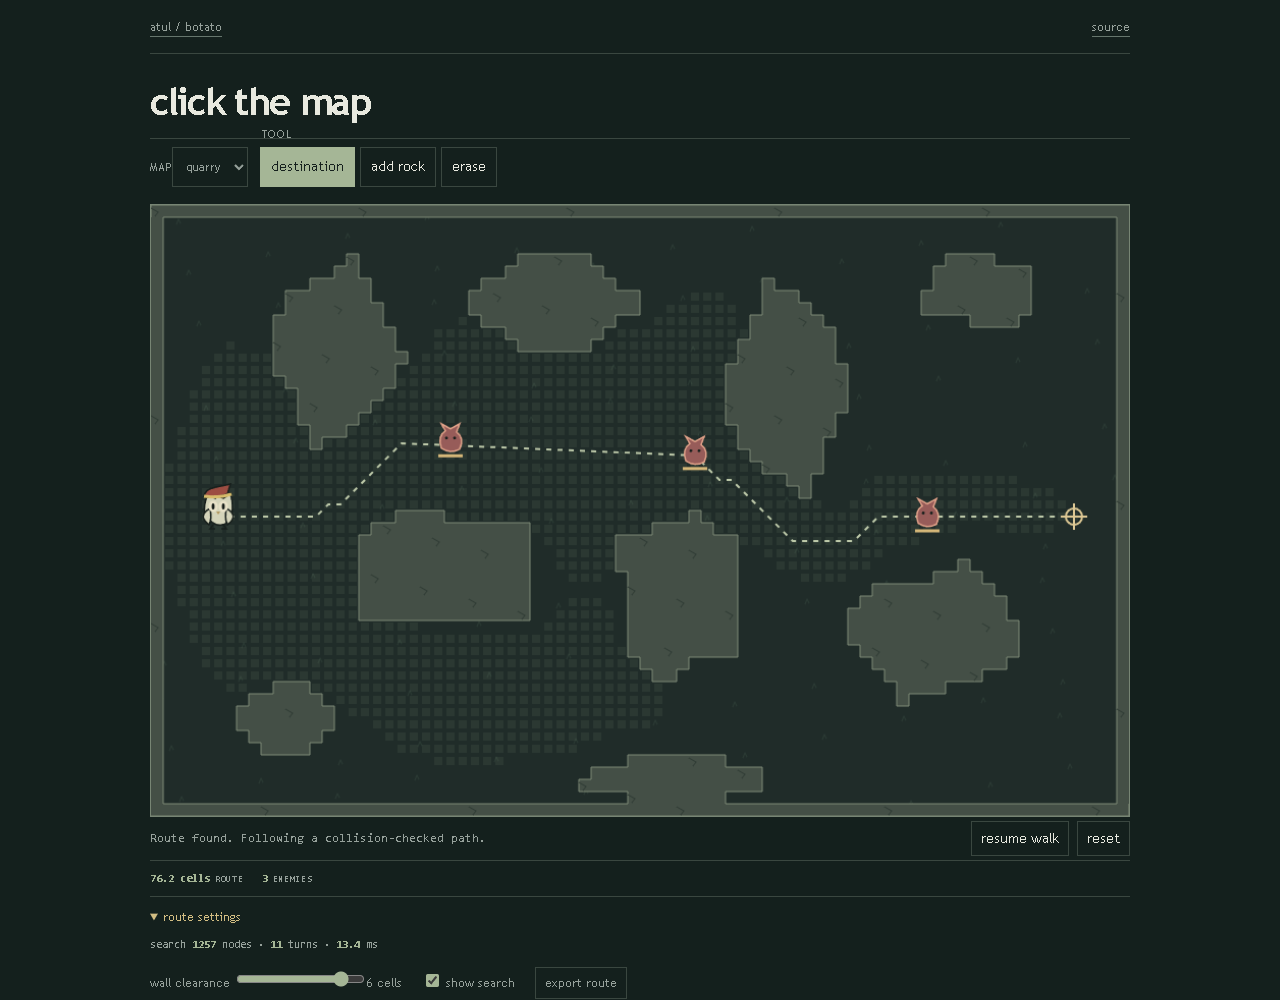
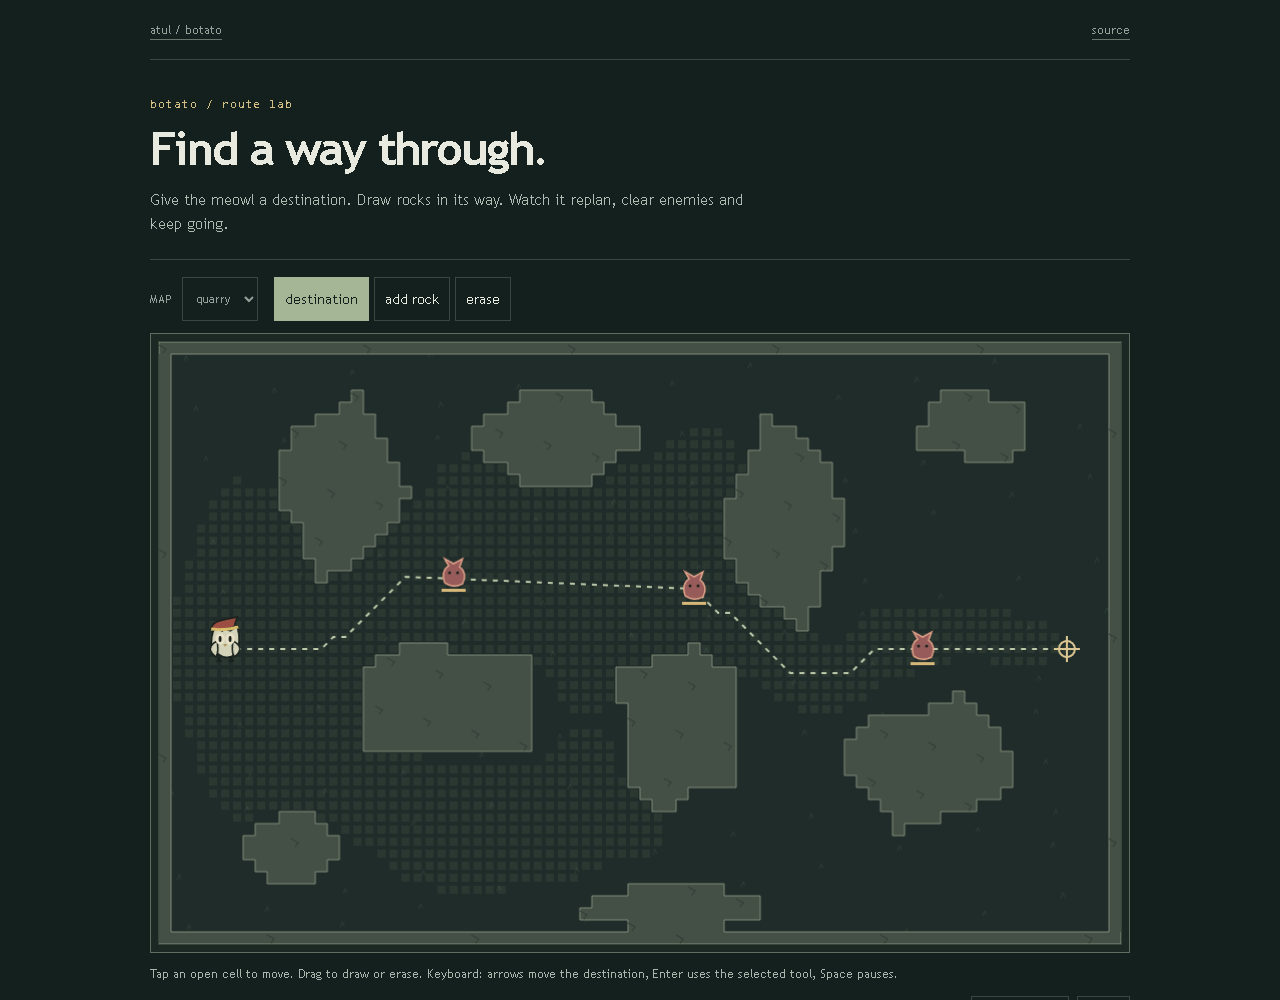
Refine terrain-first navigation and combat sandbox

diff --git a/examples/portfolio/index.html b/examples/portfolio/index.html
@@ -1,10 +1,11 @@
 <!doctype html><html lang="en"><head><meta charset="utf-8"><meta name="viewport" content="width=device-width,initial-scale=1"><title>botato / route lab</title><link rel="icon" href="favicon.svg" type="image/svg+xml"><link rel="stylesheet" href="style.css"><link rel="stylesheet" href="identity.css"></head><body>
 <header><a href="https://lolstar123.github.io/just-a-little-further/">atul / botato</a><a href="https://github.com/LolStar123/botato-navigation">source</a></header>
 <main>
-<section class="hero"><h1>click the map</h1></section>
+<section class="hero"><p class="eyebrow">botato / route lab</p><h1>Find a way through.</h1><p class="intro">Give the meowl a destination. Draw rocks in its way. Watch it replan, clear enemies and keep going.</p></section>
 <section class="toolbar"><label>map<select id="map"><option value="quarry">quarry</option><option value="ravine">ravine</option><option value="ruins">ruins</option></select></label><fieldset><legend>tool</legend><button data-tool="goal" aria-pressed="true">destination</button><button data-tool="wall" aria-pressed="false">add rock</button><button data-tool="erase" aria-pressed="false">erase</button></fieldset></section>
-<canvas id="world" width="960" height="600" tabindex="0" aria-label="Interactive terrain with route planning and enemies that are fought automatically in range. Click to set a destination."></canvas>
+<div class="map-frame"><canvas id="world" width="960" height="600" tabindex="0" aria-describedby="map-help" aria-label="Interactive terrain with route planning and enemies that are fought automatically in range. Click to set a destination."></canvas></div>
+<p id="map-help" class="map-help">Tap an open cell to move. Drag to draw or erase. Keyboard: arrows move the destination, Enter uses the selected tool, Space pauses.</p>
 <div class="below"><p id="status" role="status"></p><button id="pause">pause</button><button id="reset">reset</button></div>
-<div class="metrics" aria-label="live route telemetry"><span><strong id="distance">—</strong><small>route</small></span><span><strong id="enemy-count">—</strong><small>enemies</small></span></div>
+<div class="metrics" aria-label="live route telemetry"><span><strong id="distance">—</strong><small>route</small></span><span><strong id="enemy-count">—</strong><small>enemies left</small></span><span><strong id="kills">0</strong><small>cleared</small></span><span class="map-legend"><i></i><small>destination</small><i class="enemy-key"></i><small>enemy</small></span></div>
 <details><summary>route settings</summary><p class="search-readout"><span>search</span> <strong id="nodes">—</strong> nodes · <strong id="turns">—</strong> turns · <strong id="timing">—</strong> ms</p><label>wall clearance <input id="clearance" type="range" min="0" max="7" value="3"><output id="clearance-value">3 cells</output></label><label><input id="explored" type="checkbox"> show search</label><button id="export">export route</button></details>
-</main><script type="module" src="app.mjs"></script></body></html>
+<footer>Authored terrain, browser simulation. No game process or account connection.</footer></main><script type="module" src="app.mjs"></script></body></html>

diff --git a/examples/portfolio/identity.css b/examples/portfolio/identity.css
@@ -1,2 +1,12 @@
-/* route lab: the world is the interface, chrome stays close to it */
-body{font-family:"Trebuchet MS","Segoe UI",sans-serif}header{height:54px}main{padding:30px 0 42px}.hero{margin-bottom:18px}.hero h1{margin:0;font:800 38px/.94 "Trebuchet MS","Segoe UI",sans-serif;letter-spacing:-.035em}.toolbar{margin-bottom:9px;padding:8px 0;border-top:1px solid var(--line)}#world{border-color:#778574;box-shadow:inset 0 0 0 3px #17231f}.below{min-height:44px}.below p{font-family:ui-monospace,Consolas,monospace}summary{padding:11px 0}@media(max-width:650px){main{padding:26px 0 36px}.hero h1{font-size:34px}.toolbar{margin-top:19px}.toolbar select,.toolbar button,.below button,details button{min-height:44px}}
+/* The terrain and traveller supply the identity; controls stay close to the world. */
+body{font-family:"Trebuchet MS","Segoe UI",sans-serif}
+header{height:60px}main{padding:36px 0 42px}
+.hero{margin-bottom:24px}.hero .eyebrow{font:12px/1.4 Consolas,monospace;color:var(--gold);letter-spacing:.08em;margin:0 0 11px;text-transform:none}
+.hero h1{margin:0;font:800 clamp(32px,4.5vw,46px)/1.08 "Trebuchet MS","Segoe UI",sans-serif;letter-spacing:-.04em}
+.hero .intro{max-width:620px;margin:14px 0 0;font-size:15px;line-height:1.6;color:#afbbb3;text-transform:none;letter-spacing:0}
+.toolbar{margin-bottom:12px;padding:17px 0 0;border-top:1px solid var(--line);gap:16px}.toolbar label{display:flex;align-items:center;gap:10px}.toolbar legend{display:none}.toolbar select,.toolbar button,.below button,details button{min-height:44px}
+.map-frame{padding:7px;border:1px solid #5d6e61;background:#1b2823}#world{border:1px solid #34473a}
+.map-help{font-size:12px;color:#a7b6ad;margin:12px 0 5px;line-height:1.65;max-width:780px}
+.below{min-height:58px}.below p{font-family:Consolas,monospace;font-size:12px;line-height:1.6}.metrics span{padding:16px 24px 16px 0}.metrics strong{font-size:14px}.metrics small{font-size:10px}.metrics .map-legend{margin-left:auto;padding-right:0;gap:8px}.map-legend i{width:8px;height:8px;border:1px solid var(--gold);border-radius:50%}.map-legend .enemy-key{background:#975c59;border-color:#e0a188;border-radius:2px}
+summary{padding:16px 0;min-height:48px}footer{font-size:12px;color:var(--muted);margin-top:22px}button:hover:not(:disabled){border-color:var(--gold)}
+@media(max-width:650px){header,main{width:calc(100% - 28px)}main{padding:27px 0 34px}.hero{margin-bottom:20px}.hero h1{font-size:35px}.hero .intro{font-size:14px}.toolbar{margin-top:16px;gap:12px}.toolbar fieldset{margin-top:0;gap:6px}.toolbar button{font-size:13px}.map-frame{padding:4px}.below{padding-top:5px}.below p{margin:6px 0}.metrics{gap:0 10px}.metrics span{padding:14px 0}.metrics .map-legend{width:100%;margin:0;padding-top:0}details label{display:flex;align-items:center;gap:8px;flex-wrap:wrap;min-height:44px}details input[type=range]{max-width:180px}}

diff --git a/tools/browser_audit.py b/tools/browser_audit.py
@@ -6,6 +6,8 @@ import threading
 from pathlib import Path
 from playwright.sync_api import sync_playwright
 ROOT=Path(__file__).resolve().parents[1]
+QA=ROOT/'output/qa'
+QA.mkdir(parents=True,exist_ok=True)
 class Quiet(http.server.SimpleHTTPRequestHandler):
     def log_message(self,*args): pass
 server=http.server.ThreadingHTTPServer(('127.0.0.1',0),functools.partial(Quiet,directory=str(ROOT/'examples/portfolio')))
@@ -48,8 +50,25 @@ try:
         page.locator('[data-tool="goal"]').click()
         page.evaluate('window.scrollTo(0,0)')
         page.screenshot(path=str(ROOT/'examples/portfolio/preview.png'))
+        page.screenshot(path=str(QA/'desktop.png'),full_page=True)
         page.set_viewport_size({'width':390,'height':844})
         assert page.evaluate('document.documentElement.scrollWidth<=innerWidth+1'),'mobile overflow'
+        page.screenshot(path=str(QA/'mobile.png'),full_page=True)
+        page.locator('#world').focus();page.keyboard.press('ArrowLeft')
+        assert page.locator('#world').evaluate('(el)=>getComputedStyle(el).outlineWidth')=='2px'
+        before=page.evaluate('__botato.blocked')
+        page.locator('[data-tool="wall"]').click()
+        page.locator('#world').focus();page.keyboard.press('Enter')
+        assert page.evaluate('__botato.blocked')>before
+        assert not page.evaluate('__botato.reachable')
+        page.screenshot(path=str(QA/'blocked-keyboard.png'),full_page=True)
+        page.locator('[data-tool="erase"]').click()
+        page.locator('#world').focus();page.keyboard.press('Enter')
+        assert page.evaluate('__botato.reachable')
+        page.locator('#world').focus();page.keyboard.press('Space')
+        assert page.locator('#pause').inner_text()=='pause walk'
+        page.keyboard.press('Space')
+        assert page.locator('#pause').inner_text()=='resume walk'
         assert not errors,errors
         print('PASS: route movement, auto-combat, three maps, obstacle edits, reroute, keyboard and export')
         browser.close()

diff --git a/README.md b/README.md
@@ -1,31 +1,61 @@
-# botato route lab
+# Botato route lab
 
-**[Open the navigation sandbox](https://lolstar123.github.io/botato-navigation/)** | [poetato.app](https://poetato.app)
+[**Open the navigation sandbox**](https://lolstar123.github.io/botato-navigation/) ? [Desktop project](https://poetato.app)
 
-Botato plans movement through obstructed terrain. The public route lab lets you change that terrain while a little red-capped meowl follows its route.
+An editable navigation and combat simulation. Give a red-capped meowl a destination, draw obstacles in its way, and watch it recalculate its route. Enemies interrupt movement when they enter range; the meowl clears them and continues.
 
-![Botato route lab](examples/portfolio/preview.png)
+![Botato terrain and route](examples/portfolio/preview.png)
 
 ## Try it
 
-Click an open destination. Switch to **draw rocks** and drag across the path. The agent replans immediately; if you seal the route, it stops and says why. Erase a passage and it can continue. Try the quarry, ravine and ruins, change the preferred wall clearance, inspect the search area and export a complete route with its obstacle map.
+- Choose **quarry**, **ravine** or **ruins**, then tap an open destination.
+- Select **add rock** and drag across the route. Select **erase** to reopen a passage.
+- Seal the destination to see an unreachable state. The agent stops instead of following an invalid path.
+- Pause the simulation to edit the terrain at your own pace. Open **route settings** to change preferred wall clearance or show the search area.
+- Export the terrain, raw and smoothed routes, search result and current enemy state as JSON.
 
-## The actual navigation idea
+The map is keyboard accessible: arrow keys move the destination, Enter applies the selected destination/rock/erase tool, and Space pauses or resumes. The clearance is a preference, so a necessary narrow corridor can still be used.
 
-The [original C# router](reference/Pathfinder.cs) computes distance from walls, runs eight-direction A* with a penalty near them, then smooths the route with collision-checked shortcuts. The [original smoother](reference/PathSmoother.cs) also limits the cost increase from shortcuts.
+## How the route is built
 
-The browser implementation follows those stages on an 80 x 50 terrain. It rejects diagonal corner cuts and refuses blocked or unreachable destinations. A requested clearance is a preference, so a necessary narrow corridor can still be used. Its search metric and smoothing budget are visible in the source. The C# reference files depend on the full desktop project; they are source references, not a standalone build.
+The [original C# router](reference/Pathfinder.cs) combines distance from walls with eight-direction A*. The [original smoother](reference/PathSmoother.cs) checks proposed shortcuts for collisions and limits their additional cost.
 
-The maps are authored sandbox terrains, not exported game maps. The browser has no game-memory, account or input-control integration.
+The browser model follows the same stages on an **80 ? 50** authored terrain. It uses an orthogonal wall-distance field, a Euclidean search heuristic and a 3% smoothing-cost tolerance. Diagonal corner cuts are rejected. Changing occupancy triggers a new search before movement continues.
 
-## Run and test
+The enemy encounter loop is a public sandbox illustration of navigation feeding combat. It has three authored enemies, range checks, health and a clear/resume transition. It does not claim to reproduce every production combat decision. Neither the terrains nor the actors are exports from a running game.
+
+## Run locally
+
+Use Python 3 and a current browser. No application dependencies, account or build step are needed.
 
 ```sh
 python -m http.server 8000 --directory examples/portfolio
+```
+
+Open **http://localhost:8000** from this repository directory.
+
+## Checks
+
+```sh
 node --test examples/portfolio/model.test.mjs
-pip install playwright
+python -m pip install playwright
 python -m playwright install chromium
 python tools/browser_audit.py
 ```
 
-Open http://localhost:8000. [Routing and terrain](examples/portfolio/model.mjs), [interaction and movement](examples/portfolio/app.mjs), [provenance](PROVENANCE.md). Public browser checks run every four hours.
+Node checks collision-free routes on all maps, blocked and unreachable destinations, corner-cut prevention and occupancy edits. The isolated headless browser checks movement, automatic combat, map changes, draw/erase, keyboard editing, pause, export and a 390 px viewport. Reduced motion removes decorative bobbing while route movement remains visible. On Windows the audit uses installed Google Chrome; other platforms use Playwright Chromium.
+
+Screenshots are saved to ignored `output/qa/`; the README preview is refreshed by the audit. Search timings are measured in that browser run and are not performance promises.
+
+## Code map
+
+| File | Responsibility |
+| --- | --- |
+| [model.mjs](examples/portfolio/model.mjs) | Terrain, wall distance, A*, collision checks and smoothing |
+| [app.mjs](examples/portfolio/app.mjs) | Canvas drawing, terrain input, movement, combat and export |
+| [reference](reference) | Original C# navigation sources |
+| [browser_audit.py](tools/browser_audit.py) | Desktop/mobile flows and screenshot evidence |
+| [PROVENANCE.md](PROVENANCE.md) | Source relationship and sandbox boundaries |
+| [DESIGN.md](DESIGN.md) | Map-first design and accessibility decisions |
+
+The C# references depend on the full desktop project and are not a standalone build. This repository's browser has no game-memory, account or operating-system input integration.

diff --git a/DESIGN.md b/DESIGN.md
@@ -1,10 +1,36 @@
-# Botato route lab design
+# Botato route lab
 
-The terrain is the interface. The demo should feel like a small tactics map, not a dashboard describing pathfinding.
+## Audience and job
 
-- Put the editable world first and keep controls physically close to it.
-- Let movement, replanning and combat explain the system in motion.
-- Keep terrain, route and enemy colours quiet enough that the meowl and destination remain obvious.
-- Preserve collision checks, corner-cut prevention and unreachable-state feedback.
-- Keep route diagnostics available in settings rather than competing with the map.
-- On phones, retain tap-to-move and terrain editing without horizontal page scroll.
+A visitor explores how navigation responds to changing terrain and encounters. The primary action is interacting with the world. Route diagnostics remain secondary.
+
+## Design references and signature
+
+The original `reference/Pathfinder.cs` and `reference/PathSmoother.cs` provide the stages: wall clearance, eight-direction search and collision-checked smoothing. The authored terrain and red-capped meowl supply the visible identity. They are code-native sandbox artwork, not assets from a game process.
+
+## Tokens and layout
+
+| Role | Value |
+| --- | --- |
+| Page / ground | `#14201d` / `#202c29` |
+| Text / secondary | `#e8e9df` / `#96a19b` |
+| Rule / terrain | `#3a4740` / `#444f46` |
+| Route | `#becaaa` |
+| Destination | `#ddc894` |
+| Enemy | `#975c59`, outlined `#e0a188` |
+| Title / body | Trebuchet MS with Segoe UI fallback, 35?46 px / 14?15 px |
+| Telemetry | Consolas, 12?14 px |
+
+A restrained 980 px frame puts the map beside its tools, with an inset terrain border and an external status line. The canvas preserves its 960 ? 600 aspect ratio, including on phones; the page never clips controls to preserve that ratio. Metadata and search settings sit below the map. Terrain, route, destination and enemies have distinct shapes and colours.
+
+## Interaction states
+
+Destination, rock and erase tools have pressed states. Pointer capture keeps a drag coherent; cancellation releases it. The keyboard can move the destination and draw/erase there, while Space controls pause. Rocks are refused near the traveller. Blocked routes stop movement and explain how to reopen a passage. Reset restores terrain and enemies; it keeps the user's pause state.
+
+The encounter loop shows health, interruption, a cleared count and resumed travel. Reduced motion holds decorative bobbing/pulsing at a static phase; collision-checked movement and combat outcomes continue. Search timings are real current-browser readings, not claims about production speed.
+
+## Shared implementation rules
+
+Fonts come from the operating system; no font files or external requests are bundled. Layout starts from the working product, with no marketing cards, decorative gradients, scroll reveals or invented statistics. Code-native artwork stays editable. Controls use at least 44 px hit areas where practical and a visible two-pixel keyboard outline. Reduced motion disables decorative animation; essential state changes still happen.
+
+Local acceptance: 1280 ? 1000 desktop and 390 ? 844 mobile, no horizontal page overflow, main flow and export, keyboard focus, unavailable/error states, and no uncaught page errors. README previews and ignored `output/qa/` screenshots are generated by the actual browser audits. Screenshots were visually inspected; the review is a solo craft check, not user testing.

diff --git a/examples/portfolio/README.md b/examples/portfolio/README.md
@@ -1,1 +1,3 @@
-See the [repository guide](../../README.md) for the route lab, original-source references and checks.
+[Open the demo](https://lolstar123.github.io/botato-navigation/).
+
+See the [repository guide](../../README.md) for setup, interaction, source data and checks.
